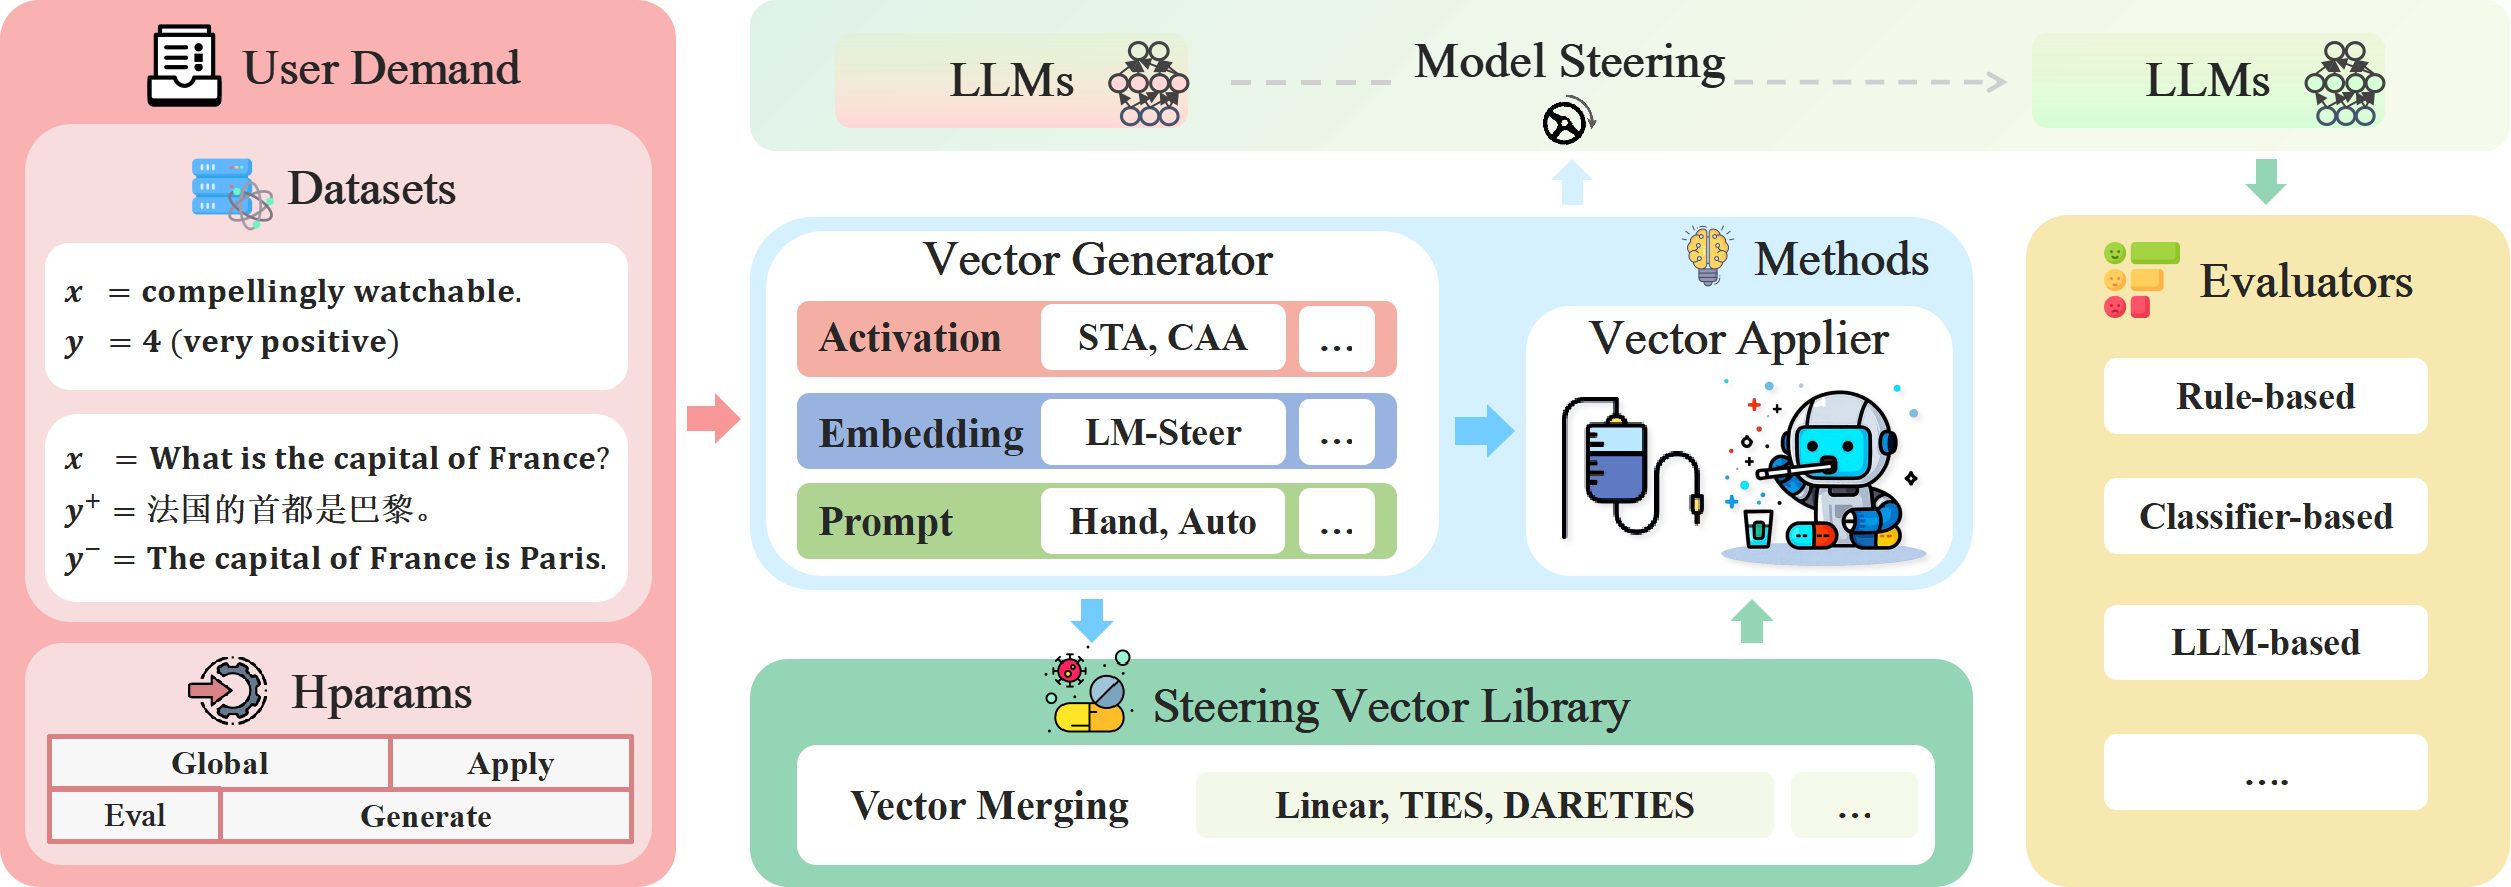
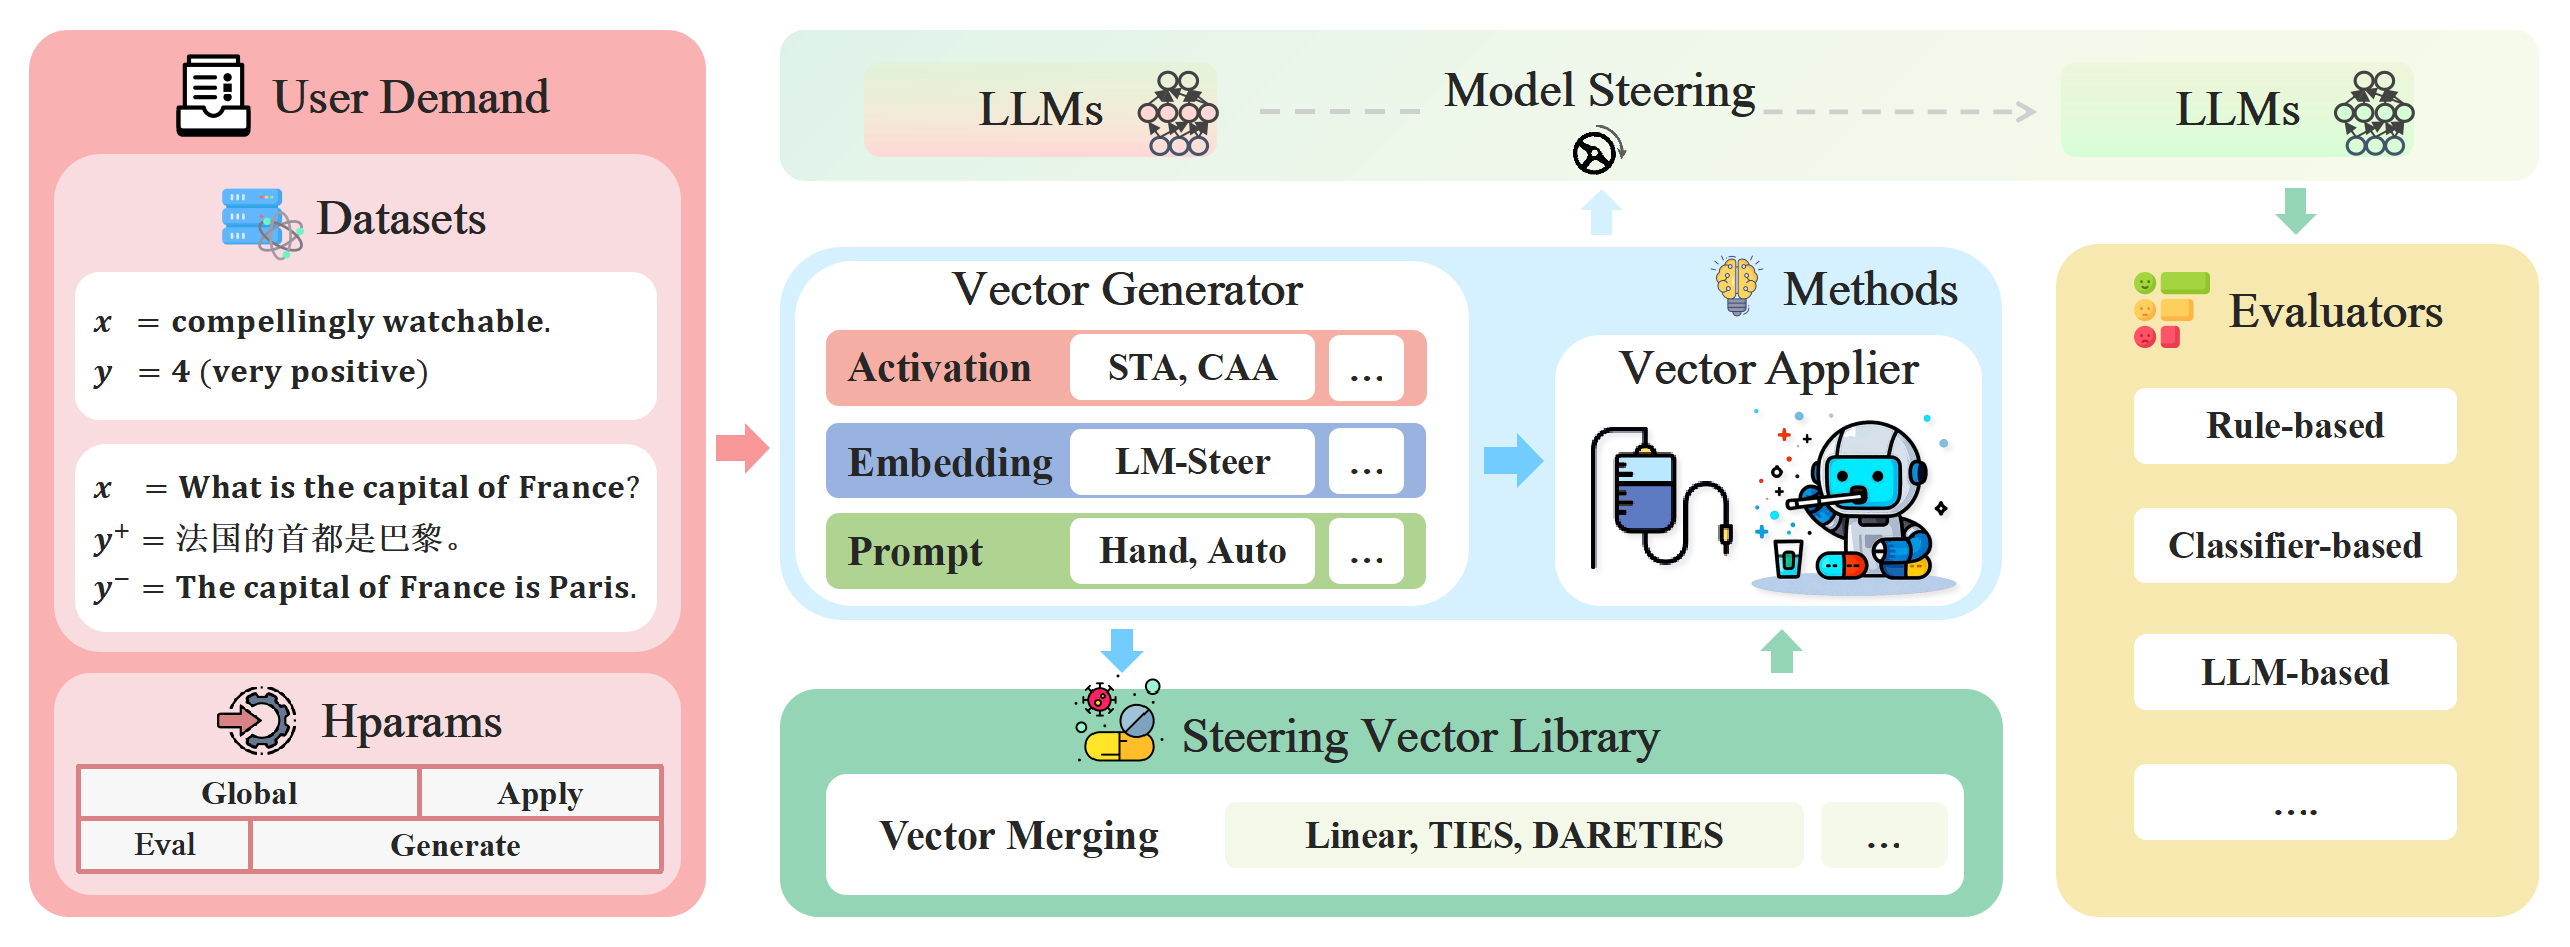
update image

diff --git a/EasyEdit/index.html b/EasyEdit/index.html
@@ -250,7 +250,7 @@
       <div class="container">
         <div class="row">
           <div class="col-lg-8 order-2 order-lg-1 mt-2 mt-lg-2">
-            <img src="./static/img/pic/framework_white.png" alt="" class="img-fluid">  
+            <img src="./static/img/pic/framework.png" alt="" class="img-fluid">  
             <!-- Or the video of EasyEdit2 -->
           </div>
           <div class="col-lg-4 order-2 order-lg-2 text-lg-start">
@@ -347,7 +347,7 @@
 
 
 
-          <a href="https://arxiv.org/abs/2205.14704" class="col-lg-4 col-md-6 portfolio-item filter-app">
+          <a href="https://arxiv.org/abs/2305.12798" class="col-lg-4 col-md-6 portfolio-item filter-app">
             <div class="portfolio-img"><img src="./static/img/pic/paperlist/lmsteer.jpg" class="img-fluid" alt=""  ></div>
             <div class="portfolio-info">
               <h4>LM-Steer</h4>
